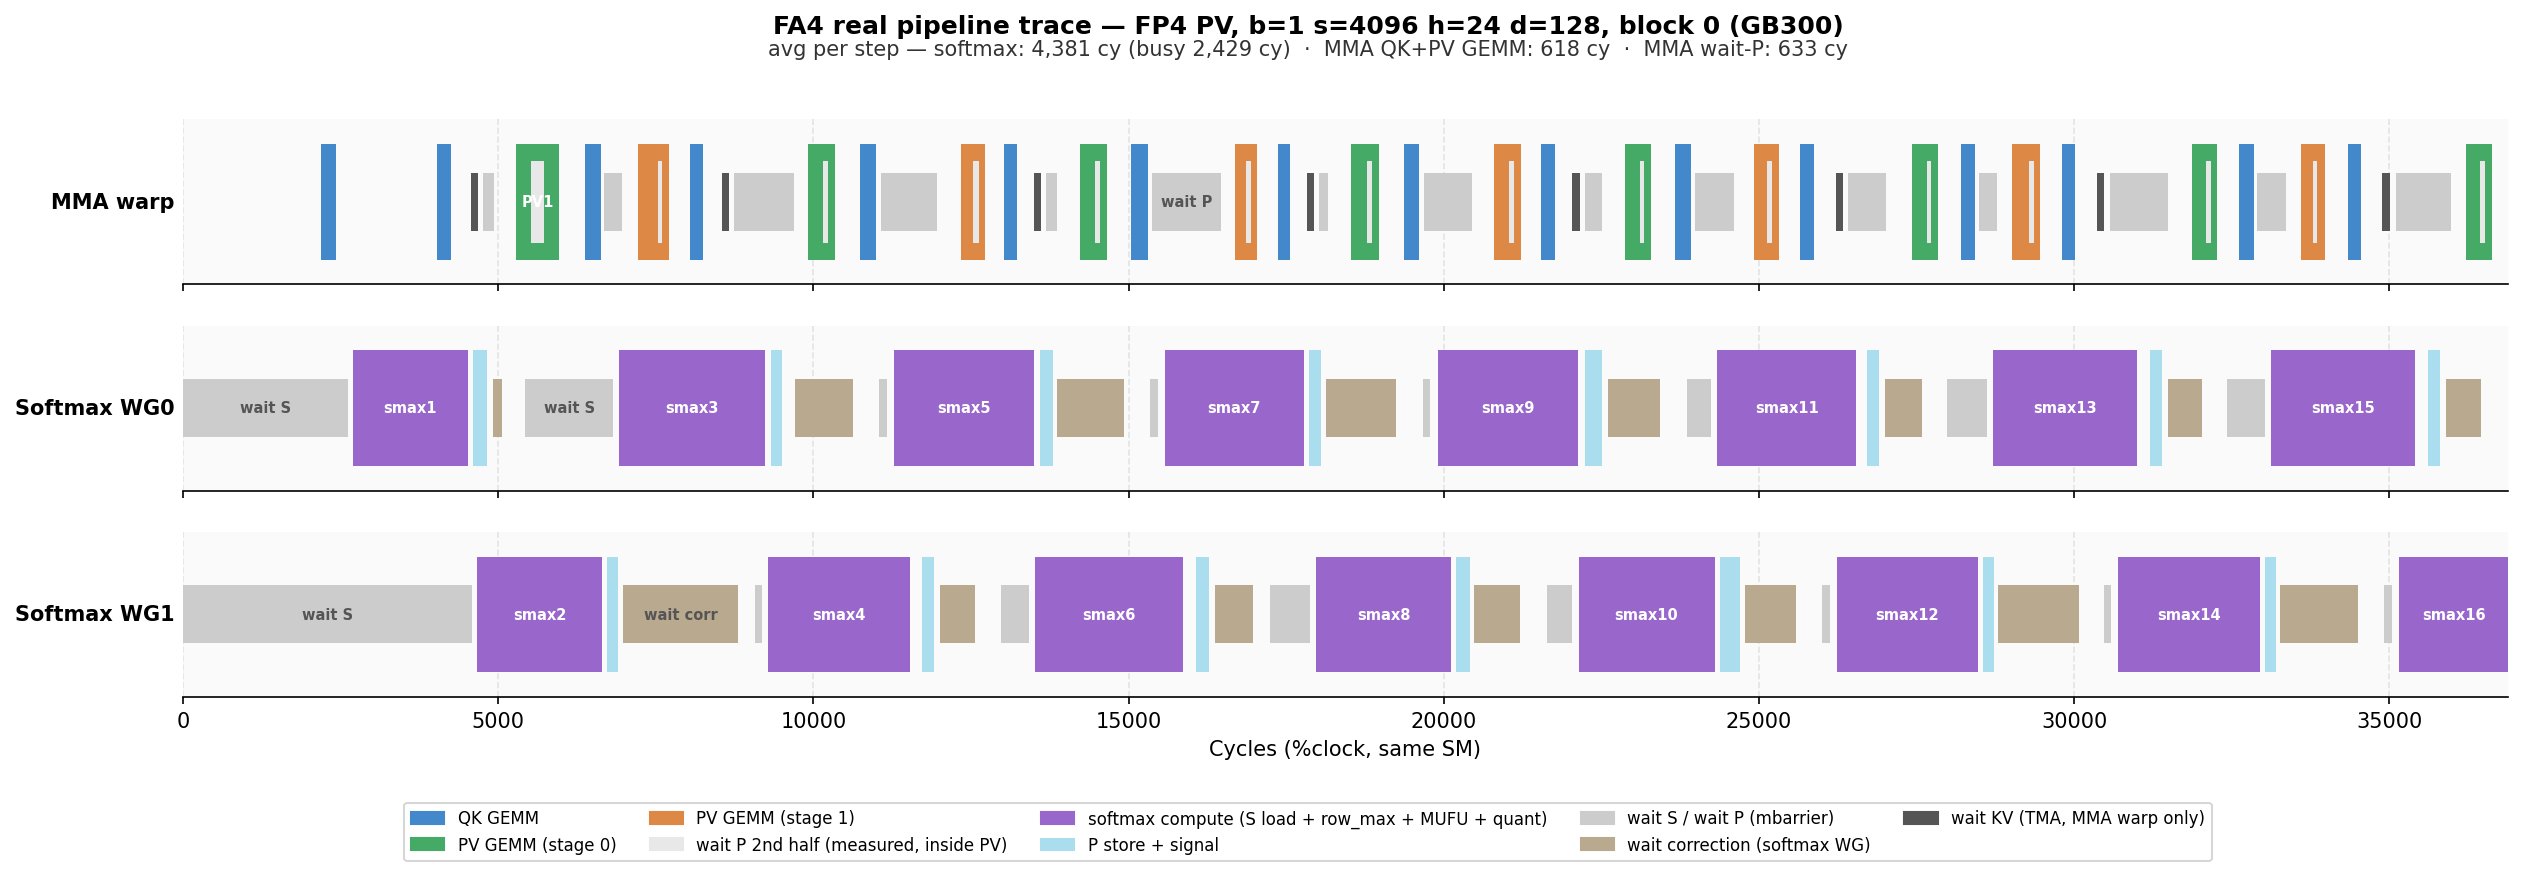
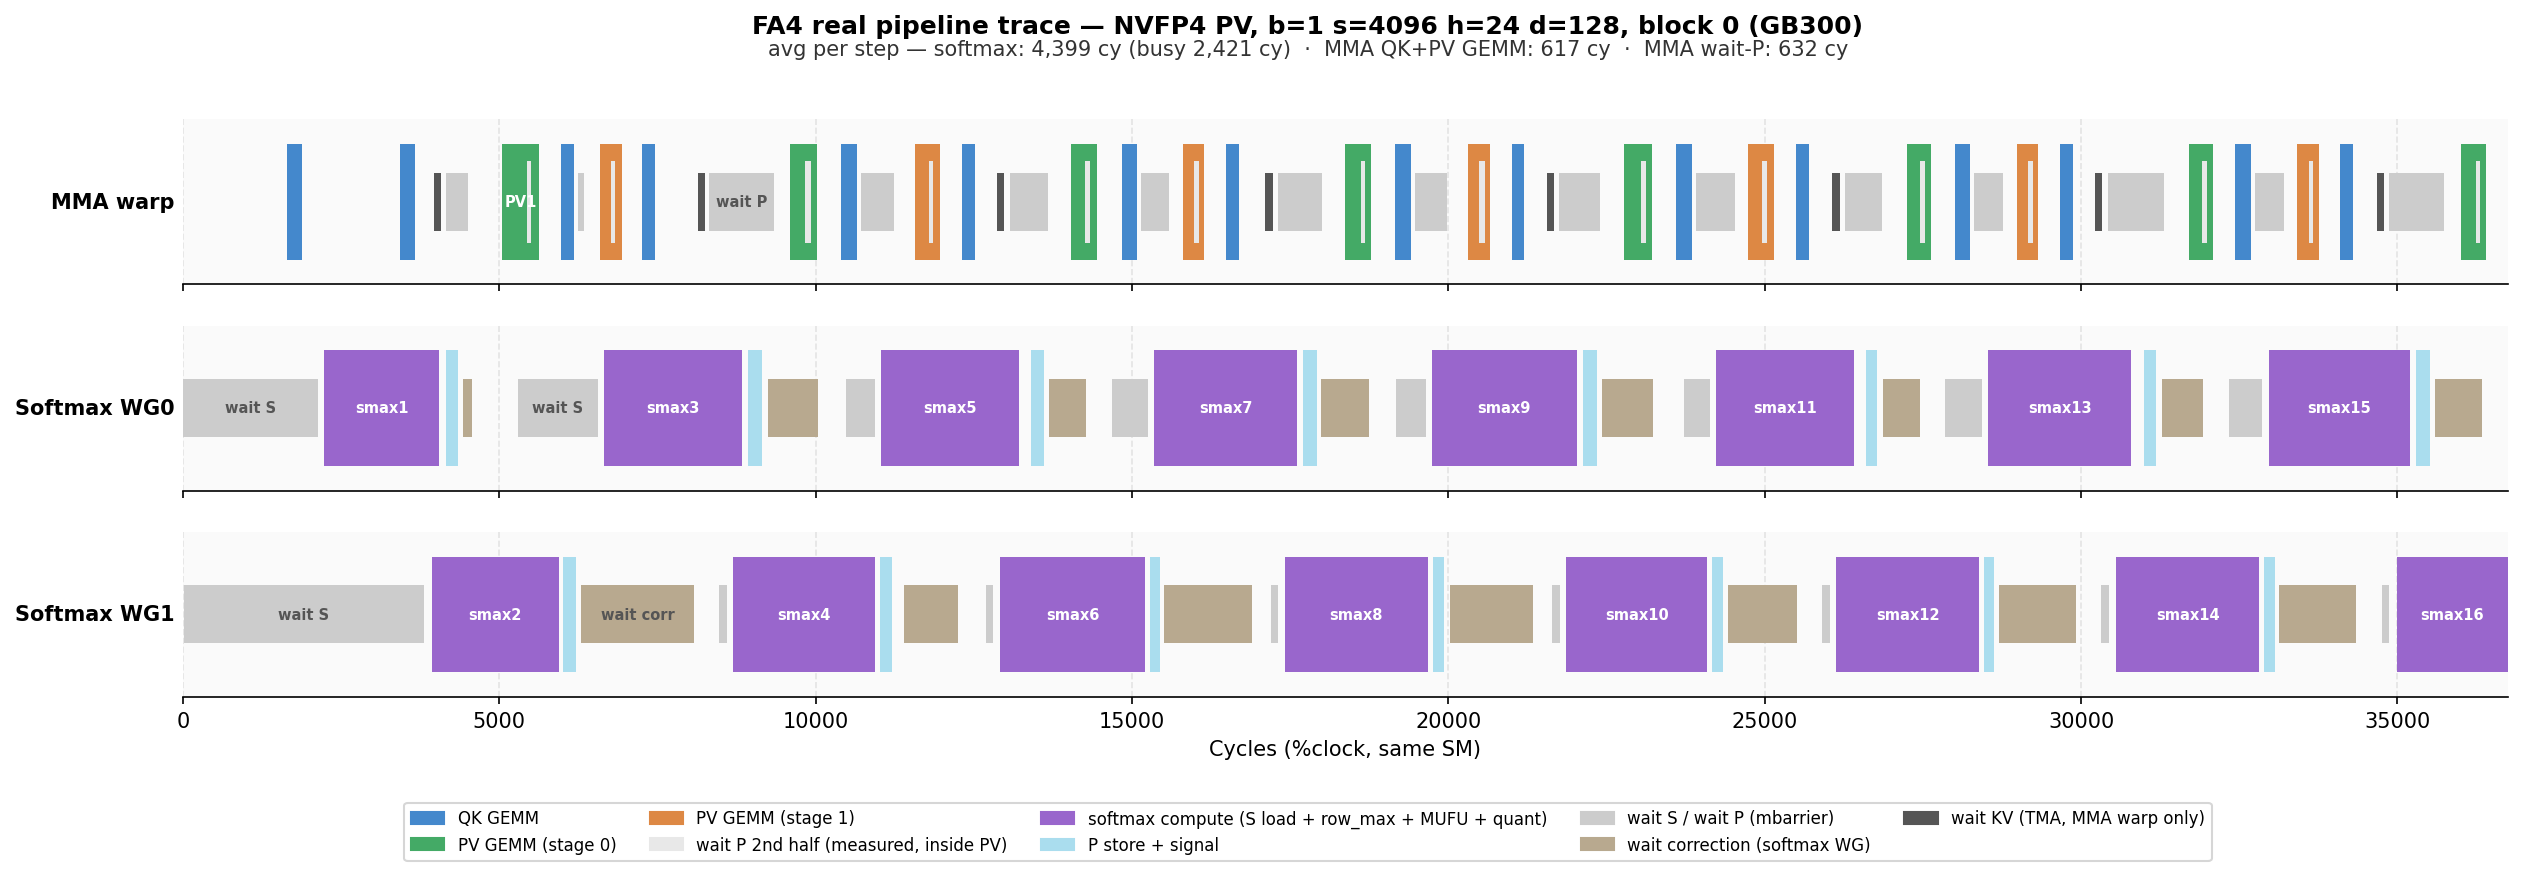
docs: detailed per-phase traces for all PV modes; NVFP4 naming; drop model figures
- trace_pipeline.py: FA4_PROFILE_DETAIL=1 writes a separate
  *_pv_detailed.png (group-wise P quant broken out from exp2); "fp4"
  displays as NVFP4 in titles/legends
- add figures/pipeline_trace_{bf16,fp8,fp4,mxfp8}_pv_detailed.png
- rename FP4 PV -> NVFP4 in the results/summary tables (NVFP4+NVFP4)
- remove the theoretical pipeline_model_b300*.png figures

diff --git a/flash_attn/cute/debug/trace_pipeline.py b/flash_attn/cute/debug/trace_pipeline.py
@@ -63,6 +63,9 @@ WAIT_EVENTS = {
     fa4_prof.EVT_MMA_WAIT_KV,
 }
 
+# Display names: the "fp4" mode is NVFP4 block-scaled P/V (E2M1 + per-16 SF).
+DISPLAY_NAME = {"fp4": "NVFP4", "mxfp8": "MXFP8", "fp8": "FP8", "bf16": "BF16"}
+
 
 def run_attention(pv_mode, batch, seqlen, nheads, headdim):
     import torch
@@ -147,10 +150,11 @@ def render(spans_by_bg, block, output_path, title, start_iter, num_iters,
         (fa4_prof.GRP_SOFTMAX0, "Softmax WG0"),
         (fa4_prof.GRP_SOFTMAX1, "Softmax WG1"),
     ]
-    # BF16/FP8 P conversion is a plain cast (F2FP in SASS); only FP4 does
-    # real quantization (group_max + scale + E2M1 pack).
+    # BF16/FP8 P conversion is a plain cast (F2FP in SASS); only FP4/MXFP8 do
+    # real (group-wise) quantization (group_max + scale + E2M1/E4M3 pack).
+    disp = DISPLAY_NAME.get(pv_mode, pv_mode.upper())
     quant_label = "quant" if pv_mode in ("fp4", "mxfp8") else "F2FP"
-    quant_legend = f"P quant ({pv_mode.upper()})" if pv_mode in ("fp4", "mxfp8") else "P cast (F2FP)"
+    quant_legend = f"P quant ({disp})" if pv_mode in ("fp4", "mxfp8") else "P cast (F2FP)"
     # Coarse traces (default) have no per-phase events: EVT_SOFTMAX_EXP is one
     # combined compute span. Detect by the absence of ROWMAX spans.
     detail = any(
@@ -322,17 +326,21 @@ def main():
     spans = fa4_prof.pair_spans(events)
     summarize(spans, args.block)
 
+    disp = DISPLAY_NAME.get(args.pv_mode, args.pv_mode.upper())
+    detail = os.environ.get("FA4_PROFILE_DETAIL", "0") == "1"
+    suffix = "_pv_detailed" if detail else "_pv"
     out = args.out or os.path.join(
         os.path.dirname(os.path.abspath(__file__)),
         "figures",
-        f"pipeline_trace_{args.pv_mode}_pv.png",
+        f"pipeline_trace_{args.pv_mode}{suffix}.png",
     )
     os.makedirs(os.path.dirname(out), exist_ok=True)
     render(
         spans, args.block, out,
         title=(
-            f"FA4 real pipeline trace — {args.pv_mode.upper()} PV, "
-            f"b={args.batch} s={args.seqlen} h={args.nheads} d={args.headdim}, "
+            f"FA4 real pipeline trace — {disp} PV"
+            + (" (detailed; instrumented spans inflated 15-30%)" if detail else "")
+            + f", b={args.batch} s={args.seqlen} h={args.nheads} d={args.headdim}, "
             f"block {args.block} (GB300)"
         ),
         start_iter=args.start_iter, num_iters=args.num_iters,

diff --git a/flash_attn/cute/debug/b300_fp4_pv_analysis.md b/flash_attn/cute/debug/b300_fp4_pv_analysis.md
@@ -15,7 +15,7 @@ MXFP8 PV, and a block-scaled-PV SF-stepping correctness fix.
 |--------------------------------|--------|-------|------|------|
 | NVFP4 QK + BF16 PV             | 2069-2142 | **2176-2246** | +4% | 0.0028 |
 | NVFP4 QK + FP8 PV              | 1909   | **2549-2633** | +33-38% | 0.0040 |
-| NVFP4 QK + FP4 PV              | 1388   | **1708-1726** | +23-24% | 0.0039 |
+| NVFP4 QK + NVFP4 PV           | 1388   | **1708-1726** | +23-24% | 0.0039 |
 | NVFP4 QK + MXFP8 PV (new)      | —      | **1755** | — | **0.0029** |
 
 FP8 PV now clearly beats BF16 PV on B300 (it previously lost), restoring
@@ -107,11 +107,13 @@ Two granularities:
   already side-effect ordered — no timestamps inside the compute stream, so
   per-step numbers stay close to the clean kernel. One combined
   "softmax compute" span per step.
-- **Detailed (`FA4_PROFILE_DETAIL=1`)**: per-phase load/exp/quant spans.
-  **Each phase boundary's side-effecting `%clock` asm blocks ptxas from
-  interleaving across it**, inflating spans 15-30% and shifting where waits
-  land. Use for relative phase proportions only; never tune from detailed
-  or instrumented runs alone — verify on clean kernels (and SASS).
+- **Detailed (`FA4_PROFILE_DETAIL=1`)**: per-phase load/exp/quant spans —
+  this is where the group-wise P quant (red) is broken out from the exp2
+  (`figures/pipeline_trace_{mode}_pv_detailed.png`). **Each phase
+  boundary's side-effecting `%clock` asm blocks ptxas from interleaving
+  across it**, inflating spans 15-30% and shifting where waits land. Use
+  for relative phase proportions only; never tune from detailed or
+  instrumented runs alone — verify on clean kernels (and SASS).
 
 Metric definitions (`trace_pipeline.py:step_stats`): one softmax **step**
 is one KV iteration = `wait S` → compute (S load + row_max + exp2 + P
@@ -474,7 +476,7 @@ All block-scaled QK x PV combinations (triton `do_bench`, GB300,
 2026-06-12 — includes the ld.red row-max (incl. BF16 ref), log-domain FP4
 quant, 3/4 FP8 P-split, MXFP8 PV, and the block-scaled-PV SF-stepping fix):
 
-| Config | NVFP4+BF16 | NVFP4+FP8 | NVFP4+FP4 | NVFP4+MXFP8 | MXFP8+BF16 | MXFP8+FP8 | BF16 ref ² |
+| Config | NVFP4+BF16 | NVFP4+FP8 | NVFP4+NVFP4 | NVFP4+MXFP8 | MXFP8+BF16 | MXFP8+FP8 | BF16 ref ² |
 |--------|----|----|----|----|----|----|----|
 | b=1 s=256 h=16 d=128 | 13 | 11 | 10 | 12 | 9 | 10 | **17** |
 | b=1 s=1024 h=16 d=128 | 212 | 195 | 172 | 220 | 196 | 197 | **290** |
@@ -489,8 +491,8 @@ quant, 3/4 FP8 P-split, MXFP8 PV, and the block-scaled-PV SF-stepping fix):
 
 All values in TFLOPS. Peak: **NVFP4+FP8 2578 TF**, **MXFP8+FP8 2342 TF**,
 **NVFP4+BF16 2262 TF**, **MXFP8+BF16 2025 TF**, **NVFP4+MXFP8 1755 TF**,
-**NVFP4+FP4 1726 TF**. **—** = unsupported (d=64 needs head_dim >=
-sf_vec_size x 4: FP4 PV and MXFP8 require 128). Small shapes (s <= 1024)
+**NVFP4+NVFP4 1726 TF**. **—** = unsupported (d=64 needs head_dim >=
+sf_vec_size x 4: NVFP4 PV and MXFP8 require 128). Small shapes (s <= 1024)
 are launch-latency dominated. MXFP8+x columns are MXFP8 QK (sf_vec 32,
 E8M0) with BF16/plain-FP8 PV; NVFP4+MXFP8 is NVFP4 QK with the new MXFP8
 PV (E4M3 P/V, E8M0 SFs per 32) — slowest-but-most-accurate of the
